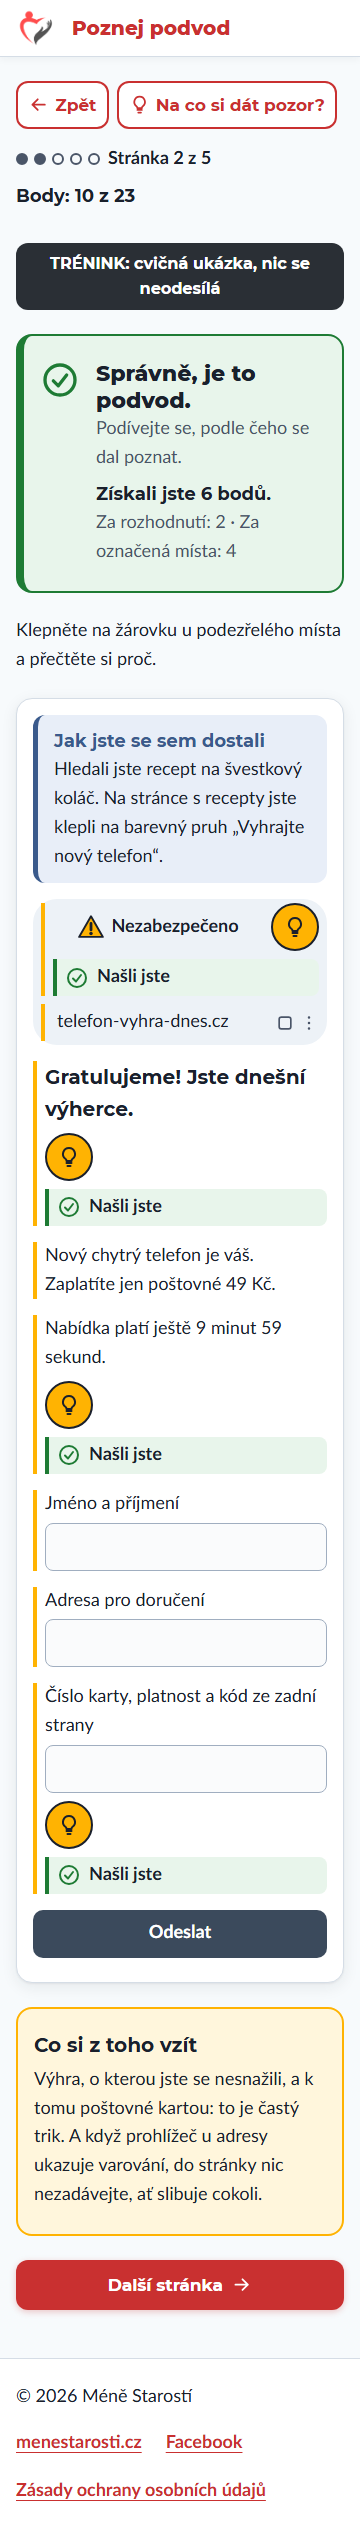
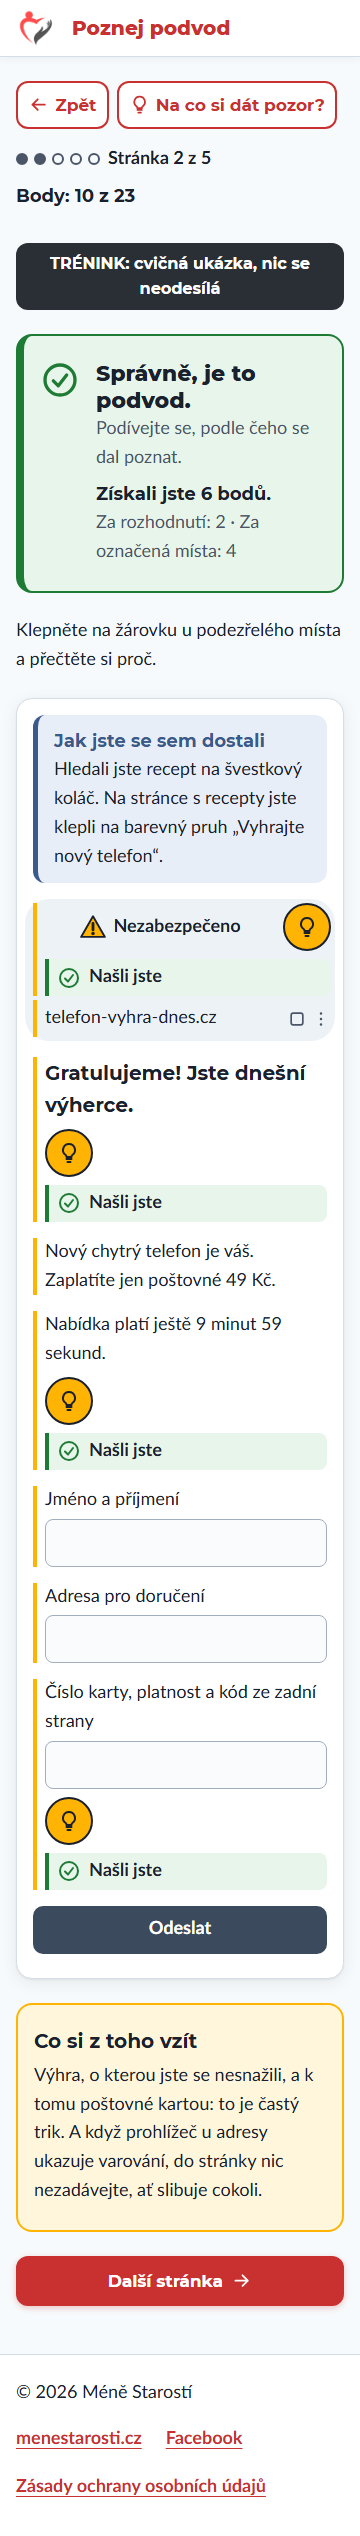
Prohlížeč: adresa v adresním řádku na jednom řádku u všech 8 stránek na 360 px, test, nové snímky

diff --git a/tests/browser-app.spec.js b/tests/browser-app.spec.js
@@ -2,7 +2,7 @@
 // docs/navrhy-scenaru-prohlizec.md, 1. 10. 2026).
 import { test, expect } from '@playwright/test';
 import { BROWSER_APP, HINTS, LINK_NOTICE } from '../src/texts.js';
-import { decide, goToScenario, nextMessage, seedWith, skipBrowserIntro, startRound } from './helpers/game.js';
+import { decide, goToScenario, nextMessage, scenarios, seedWith, skipBrowserIntro, startRound } from './helpers/game.js';
 
 // Rounds chosen by their pages (seedWith): SEED_INSECURE has the page without a secure connection
 // (01), the warning drawn by the page (04) and the ad (05); SEED_POPUP has the popups (02, 06),
@@ -428,6 +428,30 @@ test.describe('web addresses wrap only as a whole', () => {
       { text: 'lipova-banka-overeni.cz', lines: 1, fits: true },
     ]);
   });
+
+  // Tomáš, 2. 10. 2026: at 360 px with normal text the address in the bar is on one line on every
+  // page of the bank, in play, while marking and in the evaluation (incl. the longest addresses
+  // domaci-pomocnik-obchod.cz and regionalni-zpravodaj-dnes.cz)
+  const barLines = (page) =>
+    page.locator('.browser__bar .addr').evaluate((el) => {
+      const range = document.createRange();
+      range.selectNodeContents(el);
+      return new Set([...range.getClientRects()].map((rect) => Math.round(rect.top))).size;
+    });
+  for (const scenario of scenarios('prohlizec')) {
+    const seed = seedWith('prohlizec', [scenario.id]);
+    test(`360 px, ${scenario.id} (seed ${seed}): ${scenario.message.address} on one line in play, marking and evaluation`, async ({ page }) => {
+      await page.setViewportSize({ width: 360, height: 740 });
+      await open(page, scenario.id, { seed });
+      expect(await barLines(page), 'play').toBe(1);
+      await decide(page, 'scam');
+      expect(await barLines(page), 'evaluation').toBe(1);
+      // A fresh page load: the same URL again would only change the hash and keep the round
+      await page.goto('about:blank');
+      await open(page, scenario.id, { seed, level: 'pokročilá' });
+      expect(await barLines(page), 'marking').toBe(1);
+    });
+  }
 
   test(`200 % text at 320 px, seed ${SEED_BANK}: no sideways scroll, an address that fits its line is on one line`, async ({ page }) => {
     await page.setViewportSize({ width: 320, height: 740 });

diff --git a/src/styles/browser.css b/src/styles/browser.css
@@ -39,13 +39,17 @@
 
 /* ---------- Address bar ---------- */
 
+/* Tight spacing on purpose: at 360 px with normal text every address of the bank fits on one
+   line, also while marking (Tomáš, 2. 10. 2026; longest domaci-pomocnik-obchod.cz needs 228 px).
+   The address keeps 18 px text, the warning keeps its 48 px tap area. */
 .browser__bar {
   display: flex;
   flex-wrap: wrap;
   align-items: center;
-  gap: var(--space-1);
-  margin: var(--space-1) var(--space-2) var(--space-2);
-  padding: 0.25rem var(--space-1);
+  gap: 0.25rem;
+  margin: var(--space-1) var(--space-1) var(--space-2);
+  /* A little more on the left, so the address does not touch the rounded edge */
+  padding: 0.25rem 0.25rem 0.25rem 0.5rem;
   border-radius: 1.5rem;
   background: #edf2f7;
 }
@@ -79,7 +83,7 @@
 .browser__address {
   flex: 1 1 6rem;
   min-width: 0;
-  padding: 0.25rem;
+  padding: 0.25rem 0;
   color: var(--color-heading);
   overflow-wrap: anywhere;
 }
@@ -100,9 +104,12 @@
   flex: none;
 }
 
-/* Marking inside the bar: the icon keeps its own small width, the address takes the rest */
+/* Marking inside the bar: the icon keeps its own small width, the address takes the rest.
+   Narrower side padding than other marked parts, so the address fits on one line at 360 px. */
 .browser__bar .msg-mark {
   width: auto;
+  padding-left: 0.25rem;
+  padding-right: 0.25rem;
 }
 
 .browser__bar .msg-mark:has(.browser__address),

diff --git a/CLAUDE.md b/CLAUDE.md
@@ -511,7 +511,7 @@ Historie hotové práce je v docs/historie.md, sem piš jen aktuální stav. Zá
 - **Milník 8 (Prohlížeč), fáze 11 „Kontrola na snímcích“ je vynechaná** (Tomáš, 1. 10. 2026): neprovedla se, ověřil se jen označený trojúhelník v pokročilé úrovni. Nahrazuje ji fáze 15, Tomášova kontrola na telefonu na živém webu (po přidání fáze 14 „Úprava úvodu a scénáře prohlizec-03“, Tomáš 1. 10. 2026). Prohlížeč je milník 8, Vydání milník 9 (přečíslováno 1. 10. 2026).
 
 **Otevřené úkoly:**
-- **Adresa `prohlizec-08` v adresním řádku na 360 px (nález 2. 10. 2026, ze snímků místo fáze 11):** `domaci-pomocnik-obchod.cz` je s běžným písmem delší než místo vedle ikon, takže se zalomí za pomlčkou („domaci-pomocnik-“ / „obchod.cz“, snímek `docs/plany/snimky/prohlizec-08-vyhodnoceni.png`). Pravidlu „adresa delší než řádek se smí zalomit kdekoli“ to odpovídá, senior ale může mít potíž adresu přečíst. Nic se neopravovalo, rozhodne Tomáš (třeba kratší adresa, nebo zúžit mezery v řádku jako v úvodu).
+- ~~Adresa v adresním řádku na 360 px.~~ **Opraveno 2. 10. 2026** (Tomášův pokyn): na 360 px s běžným písmem se zalamovaly 4 adresy (`prohlizec-01` vedle trojúhelníku, `05`, `07` při označování, `08`). Užší mezery v adresním řádku (`.browser__bar` v `browser.css`), písmo adresy zůstává 18 px, trojúhelník 48 px. Měřeno: nejdelší `domaci-pomocnik-obchod.cz` potřebuje 228 px, ve hře má 250, při označování 238. Hlídá test „360 px, prohlizec-0N … on one line in play, marking and evaluation“ v `tests/browser-app.spec.js` pro všech 8 scénářů; bez opravy selhaly 4 (01, 05, 07, 08). Snímky v `docs/plany/snimky/` udělané znovu.
 - **Přilepená lišta kola při velkém písmu (nález 28. 9. 2026):** v testu s 200% písmem na 360 × 740 px zabírá lišta 472 px z 740, protože zvětšené písmo v testu podmínku `min-height: 40em` nevypne. Zpráva ve schránce pak může být středem pod lištou. Test `200 % text at 360 px` (`tests/email-app.spec.js`) je proto označený `test.fail` (očekávané selhání): „přilepená lišta při 200% písmu na malém displeji (360×740) zakrývá zprávu; na Tomášově telefonu při 200% bez problému“. **Nízká priorita, ověřeno na jednom zařízení** (Tomáš, 28. 9. 2026). Až se to opraví, Playwright ohlásí, že test „nečekaně prošel“, a `test.fail` se odstraní.
 - **Před zveřejněním odkazu na hru: číslo kupujícího v `zpravy-06`.** Znovu ověřit v otevřených datech ČTÚ „Přidělená čísla a kódy“ (https://data.ctu.gov.cz/dataset/pridelena-cisla-kody), že blok 772 100 000 až 772 199 999 (číslo +420 772 145 208) nemá držitele. Ověřeno 24. 9. a znovu 28. 9. 2026: CSV https://data.ctu.gov.cz/sites/default/files/imports/import_numbers/pridelena_cisla_a_kody.csv, 13 206 řádků, žádný rozsah blok nepřekrývá (kontrola výpočtem, stejný výpočet najde přidělený rozsah 772 720 000–772 729 999). ČTÚ ale může blok kdykoli přidělit, proto znovu v den zveřejnění (sekce 17, A2).
 - ~~Přesměrování http → https.~~ **Běží od 29. 9. 2026:** Tomáš nahrál `.htaccess` do kořene subdomény ručně přes FTP. Pravidlo: `http://` → `https://` kódem 301 (trvalé), výjimka pro `/.well-known/acme-challenge/` (obnova certifikátu Let's Encrypt). V repozitáři je jako `public/.htaccess`, Vite ho kopíruje do `dist/`, obsah hlídá `tests/unit/htaccess.spec.js`.

diff --git a/docs/plany/plan-prohlizec.md b/docs/plany/plan-prohlizec.md
@@ -12,7 +12,7 @@ Stav: nasazeno 1. 10. 2026 (spojení `4b25c70`), fáze 14 nasazená 2. 10. 2026 
 
 - **Karta „Jak jste se sem dostali“** nad adresním řádkem: jedna věta o příchodu na stránku. Modrošedá (`#e8eef8`, tmavomodrý proužek a nadpis), **ne žlutá**: žlutá je barva varování a světle žlutý podklad má označená část. Kontrast textu i nadpisu hlídá `tests/evaluation-colors.spec.js`. Kartu nejde označit. Aby neprozradila odpověď, mají podvody 02 a 04 nevinný příchod a legitimní 06 příchod přes odkaz.
 - **Adresní řádek:** adresa, celá a zalomitelná. U nezabezpečeného připojení vlevo **jen žlutý trojúhelník s vykřičníkem**, v obou úrovních bez nápisu. Čtečka obrazovky čte „Varování: připojení není zabezpečené“, klepací plocha aspoň 48 px. Ve vyhodnocení trojúhelník s nápisem „Nezabezpečeno“ a žárovkou. U zabezpečeného připojení žádné varování. **Zámek se nepoužívá.**
-- **Zalamování adres** (Tomáš, 1. 10. 2026): adresy v adresním řádku, na kartě, ve vysvětleních a v úvodu se zalamují jen celé, nikdy u pomlčky ani u tečky (`.addr` v `browser.css`, `escapeWithAddresses` v `src/ui/html.js`). Adresa delší než celý řádek se smí zlomit kdekoli, stránka se do strany neposouvá. Při 200% písmu na 320 px se adresy do řádku nevejdou a zlomí se (změřeno: karta 121 px, `lipova-banka.cz` 243 px). Na 320 px s běžným písmem se `lipova-banka-overeni.cz` v adresním řádku nevejde (chybí asi 5 px), od 360 px ano. Hlídá `tests/browser-app.spec.js` („web addresses wrap only as a whole“).
+- **Zalamování adres** (Tomáš, 1. 10. 2026): adresy v adresním řádku, na kartě, ve vysvětleních a v úvodu se zalamují jen celé, nikdy u pomlčky ani u tečky (`.addr` v `browser.css`, `escapeWithAddresses` v `src/ui/html.js`). Adresa delší než celý řádek se smí zlomit kdekoli, stránka se do strany neposouvá. Při 200% písmu na 320 px se adresy do řádku nevejdou a zlomí se (změřeno: karta 121 px, `lipova-banka.cz` 243 px). Na 320 px s běžným písmem se `lipova-banka-overeni.cz` v adresním řádku nevejde (chybí asi 5 px), od 360 px ano. Hlídá `tests/browser-app.spec.js` („web addresses wrap only as a whole“). Od 2. 10. 2026 jsou na 360 px s běžným písmem v adresním řádku na jednom řádku adresy všech 8 stránek ve hře, při označování i ve vyhodnocení (užší mezery v řádku, písmo 18 px, test pro každý scénář).
 - **Obsah stránky:** nadpis, odstavce, reklama nebo „varování“ nakreslené stránkou (pruh), formulářová pole, tlačítko.
 - **Vyskakovací okno** (02, 06): stránka pod ním je ztmavená (šedé čáry bez textu) a nejde označit, okno je obsah. Okno nemá křížek.
 - **Dekorace** (ikona karet, menu ⋮) jsou skryté pro čtečku a nic nedělají.

diff --git a/docs/kontrola-na-telefonu.md b/docs/kontrola-na-telefonu.md
@@ -66,7 +66,7 @@ Nový úvod s barevnými rámečky a „Lipová banka“ jsou na živém webu od
 19. Dohrajte celé kolo (5 stránek).
     - Stránka 5 je „Lipová banka: ověření účtu“. Na kartě „Jak jste se sem dostali“ je pravá adresa banky `lipova-banka.cz`, v adresním řádku `lipova-banka-overeni.cz`. Ve vyhodnocení klepněte na žárovku u adresy: ve vysvětlení jsou obě adresy.
     - Adresy se zalamují jen celé: když se adresa vejde na řádek, je celá na jednom řádku. Adresa delší než celý řádek (s velkým písmem běžné) se smí zalomit kdekoli, ale stránka nejde posunout do strany.
-    - Známý případ (2. 10. 2026): na stránce 2 (e-shop, `domaci-pomocnik-obchod.cz`) se adresa v adresním řádku na úzkém telefonu zalomí za pomlčkou i s běžným písmem, protože je delší než místo vedle ikon. Pravidlu to odpovídá, nezapisujte to jako nový nález.
+    - Od 2. 10. 2026 je s běžným písmem na telefonu širokém aspoň 360 px adresa v adresním řádku na jednom řádku u všech stránek (i u e-shopu `domaci-pomocnik-obchod.cz` na stránce 2). Když se zalomí s běžným písmem, zapište to jako nález.
     - V tomto kole není stránka s nezabezpečeným připojením, trojúhelník přijde v dalším kole.
 20. Po poslední stránce klepněte na „Zobrazit výsledek“, na konci kola na „Zpět na hlavní stránku“ a v anonymním okně znovu otevřete https://poznej-podvod.menestarosti.cz/?seed=1#/prohlizec
     - Úvod se neukáže (v tomto okně jste ho už viděli). Hra si pamatuje minulé kolo a vybere jiné stránky (výpočtem ověřeno 1. 10. 2026, na živém webu 2. 10. 2026): Lipová banka v něm nebude, zato je tam stránka s výhrou telefonu a nezabezpečeným připojením.
